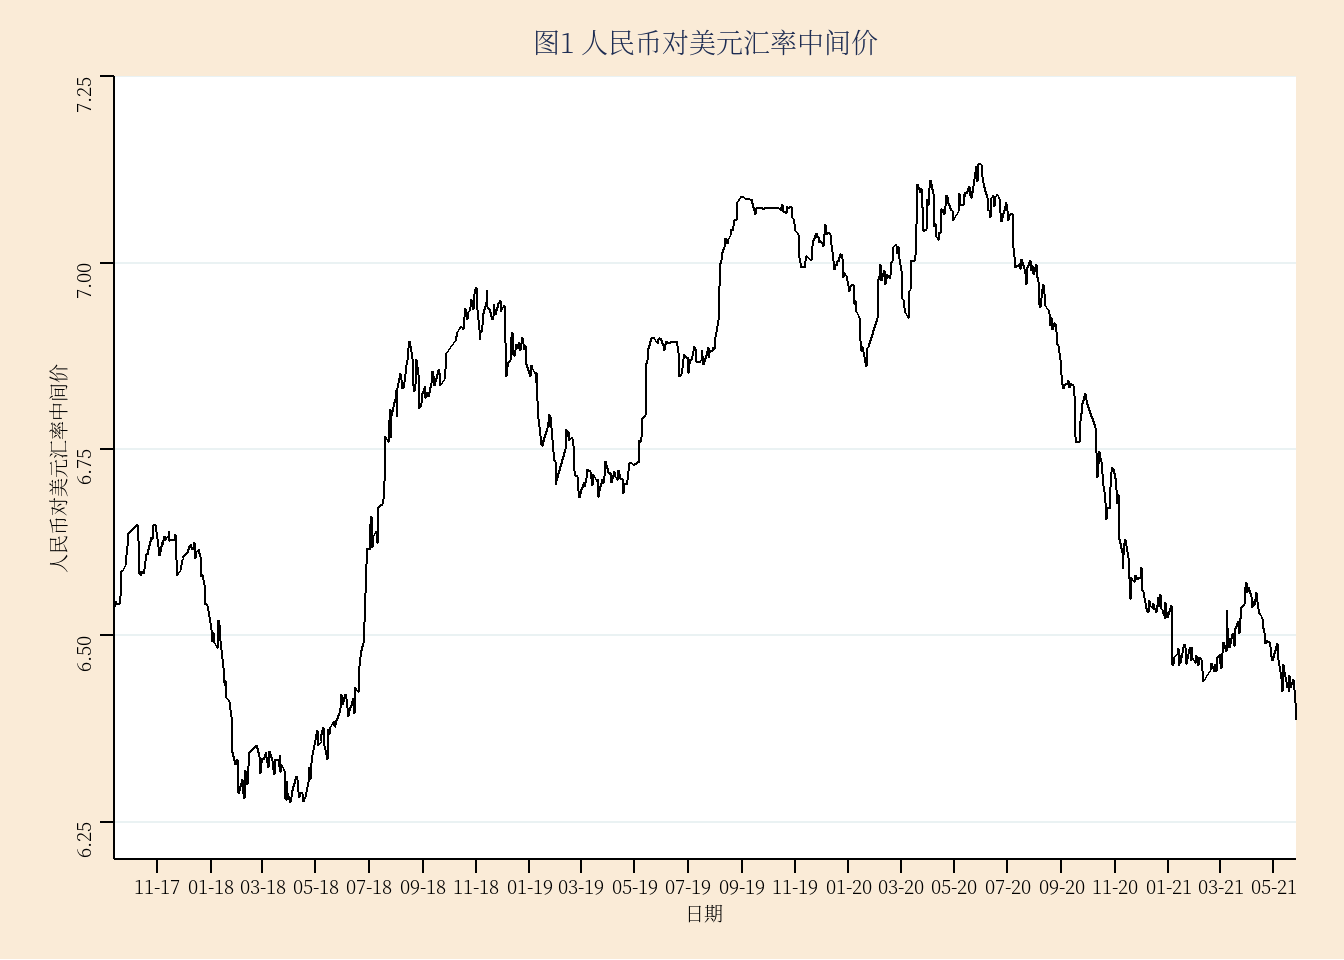
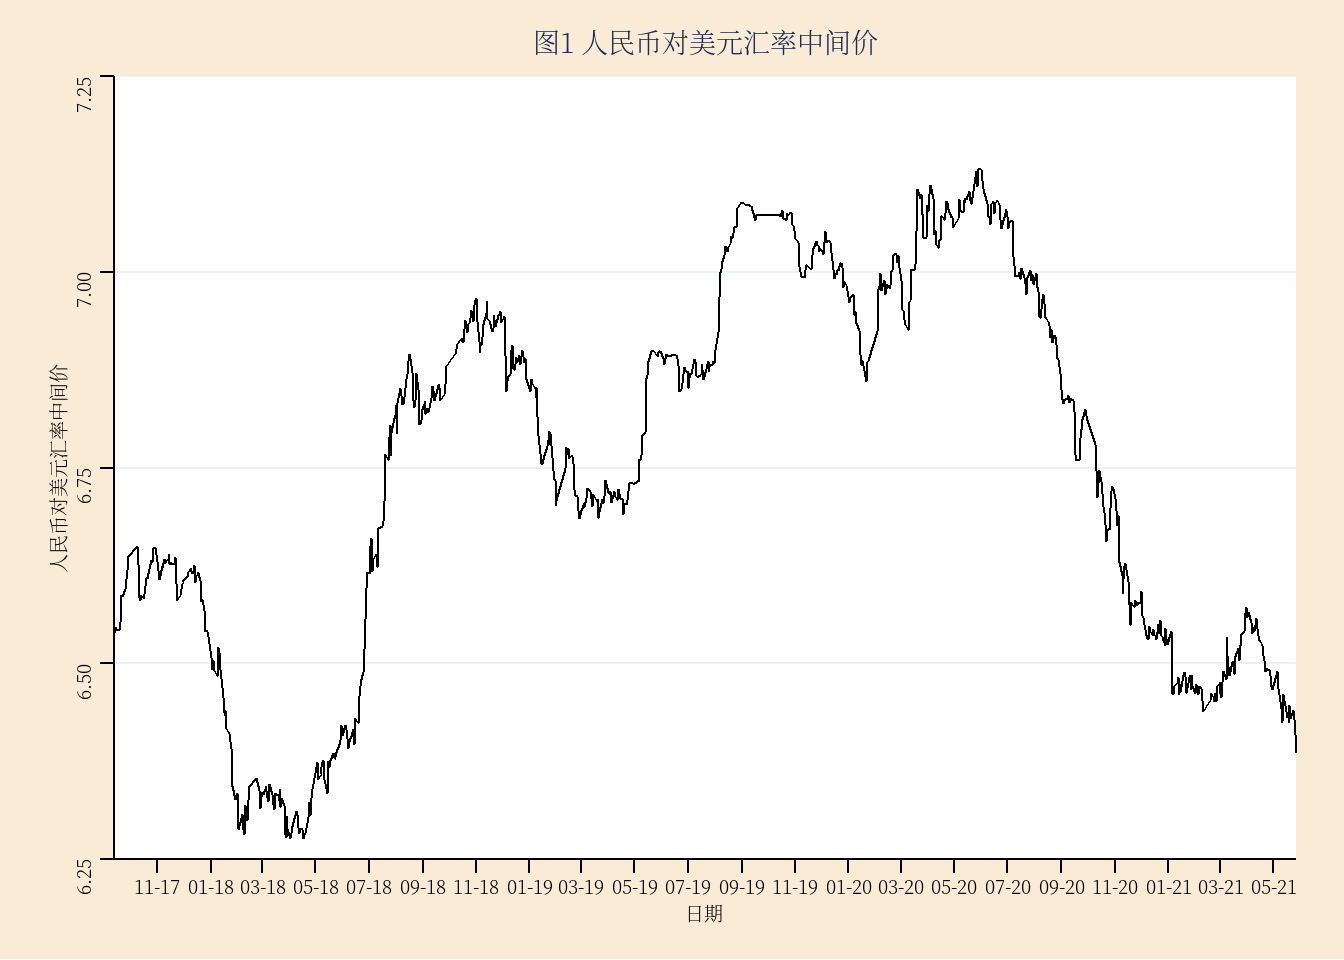
双坐标轴

diff --git a/content/ProgramR/ggplot坐标轴.html b/content/ProgramR/ggplot坐标轴.html
@@ -39,7 +39,7 @@ library(ggthemes)
 library(ggThemeAssist)
 gg &lt;- ggplot(CNYUS, aes(x = 日期, y = `中间价:美元兑人民币`))+
       geom_line()+
-      scale_y_continuous(limits=c(6.2,7.25),expand=c(0,0))+
+      scale_y_continuous(limits=c(6.25,7.25),expand=c(0,0))+
       scale_x_date(date_labels = &quot;%m-%y&quot;,date_breaks = &quot;2 month&quot;,expand=c(0,0))+
       labs(x = &quot;日期&quot;, 
            y = &quot;人民币对美元汇率中间价&quot;,
@@ -117,10 +117,9 @@ gg&lt;-ggplot()+
     limits = c(Firm_stock_price_floor, Firm_stock_price_ceiling),
     breaks = c(seq(Firm_stock_price_floor,Firm_stock_price_ceiling,Firm_stock_price_interval)),
      label=seq(Firm_stock_price_floor,Firm_stock_price_ceiling,Firm_stock_price_interval),
-     sec.axis=sec_axis(~./0.99,name=&quot;美元汇率指数（蓝色）&quot;,
+     sec.axis=sec_axis(~./1,name=&quot;美元汇率指数（蓝色）&quot;,
           breaks =c(seq(Firm_stock_price_floor,Firm_stock_price_ceiling,Firm_stock_price_interval)),
-          label=seq(round(Index_floor,2),Index_ceiling,Index_interval))
-    ,
+          label=seq(round(Index_floor,2),Index_ceiling,Index_interval)) ,
     expand=c(0,0))+
   #设置X轴的标签
   scale_x_date(limits = c(Firm_stock_price_Index_price$date[1],Sys.Date()),date_labels = &quot;%m-%y&quot;,date_breaks = &quot;2 month&quot;,expand=c(0,0))+
